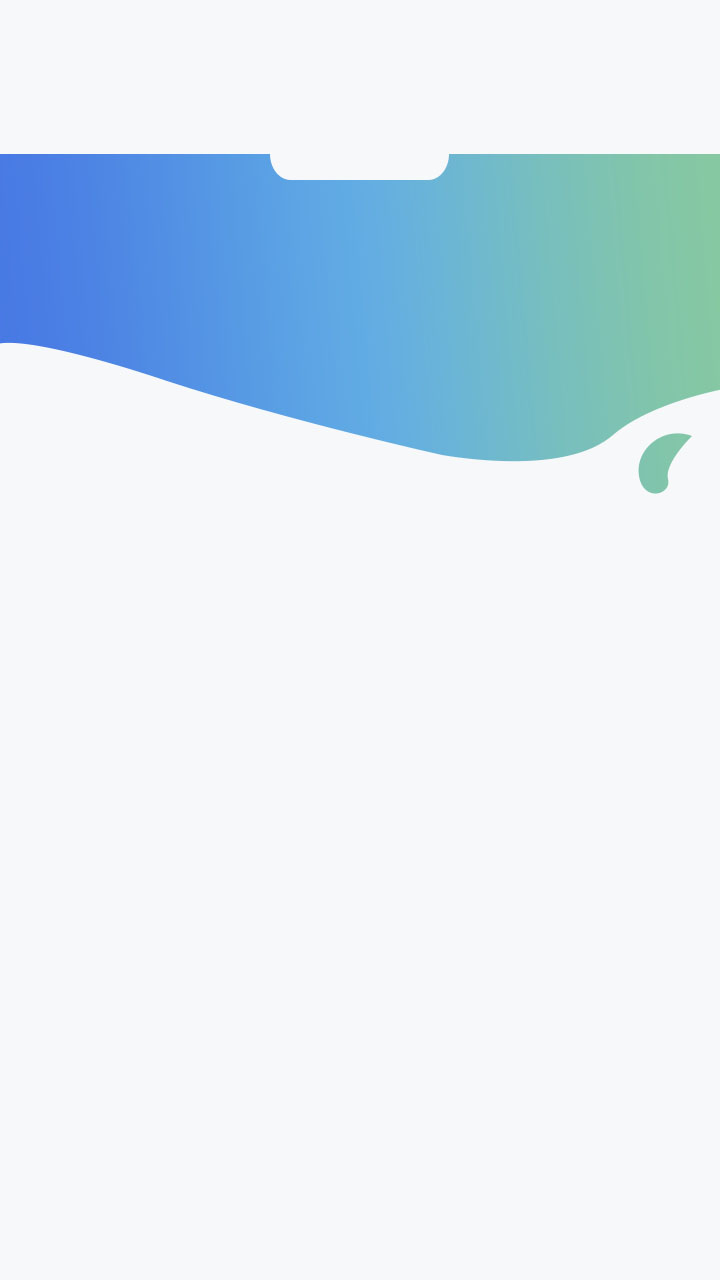
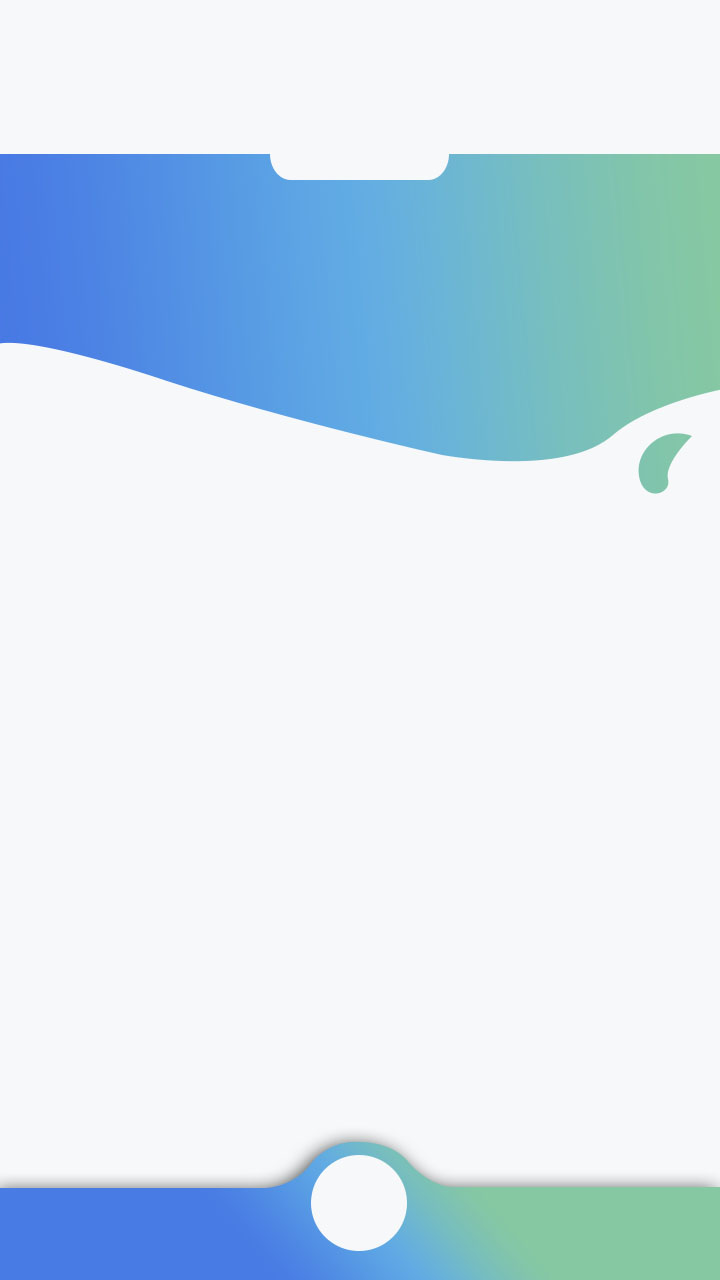
update delete + database + swipe to dismiss

Changed region(s): [[0.0, 0.875, 1.0, 1.0]]

diff --git a/lib/pages/home.dart b/lib/pages/home.dart
@@ -5,7 +5,7 @@ import 'package:pemrograman_mobile_uts/models/category.dart';
 import 'package:pemrograman_mobile_uts/pages/task.dart';
 import 'package:sqflite/sqflite.dart';
 import 'dart:async'; //pendukung program asinkron
-
+import 'package:flutter_slidable/flutter_slidable.dart';
 import 'formCategory.dart';
 
 class Home extends StatefulWidget {
@@ -116,19 +116,34 @@ class HomeState extends State<Home> {
             padding: EdgeInsets.only(left: 20, right: 20),
             child: Column(children: [
               Padding(
-                padding: const EdgeInsets.only(top: 40, bottom: 100),
-                child: Column(
+                padding: const EdgeInsets.only(top: 40, bottom: 100, left: 50),
+                child: Row(
                   children: [
-                    Text(
-                      "My Day",
-                      style: TextStyle(
+                    Padding(
+                      padding: const EdgeInsets.only(right: 10),
+                      child: CircleAvatar(
+                        backgroundColor: Colors.green[200],
+                        child: Icon(
+                          Icons.list,
                           color: Colors.white,
-                          fontWeight: FontWeight.bold,
-                          fontSize: 20),
+                        ),
+                      ),
                     ),
-                    Text(
-                      "You have " + count.toString() + " activites to do",
-                      style: TextStyle(color: Colors.white),
+                    Column(
+                      crossAxisAlignment: CrossAxisAlignment.start,
+                      children: [
+                        Text(
+                          "My Day",
+                          style: TextStyle(
+                              color: Colors.white,
+                              fontWeight: FontWeight.bold,
+                              fontSize: 20),
+                        ),
+                        Text(
+                          "You have " + count.toString() + " activites to do",
+                          style: TextStyle(color: Colors.white),
+                        ),
+                      ],
                     ),
                   ],
                 ),
@@ -162,11 +177,16 @@ class HomeState extends State<Home> {
                 child: createListView(),
               ),
               Container(
+                padding: EdgeInsets.only(bottom: 10, top: 10),
                 alignment: Alignment.bottomCenter,
                 child: SizedBox(
                   width: double.infinity,
-                  child: RaisedButton(
-                    child: Text("Tambah Item"),
+                  child: FloatingActionButton(
+                    backgroundColor: Colors.white,
+                    child: Icon(
+                      Icons.add,
+                      color: Colors.red[200],
+                    ),
                     onPressed: showBottomSheet,
                   ),
                 ),
@@ -213,21 +233,30 @@ class HomeState extends State<Home> {
             color: Colors.white,
           );
         }
-        return Card(
-          color: Colors.white,
-          elevation: 2.0,
-          child: ListTile(
-            leading: CircleAvatar(
-              backgroundColor: Colors.green[200],
-              child: iconString,
+        return Slidable(
+          actionPane: SlidableDrawerActionPane(),
+          actionExtentRatio: 0.25,
+          child: Container(
+            margin: EdgeInsets.only(bottom: 5),
+            color: Colors.white,
+            child: ListTile(
+              leading: CircleAvatar(
+                backgroundColor: Colors.green[200],
+                child: iconString,
+              ),
+              title: Text(
+                this.categoryList[index].categoryName,
+                style: textStyle,
+              ),
+              subtitle: Text("- "),
             ),
-            title: Text(
-              this.categoryList[index].categoryName,
-              style: textStyle,
-            ),
-            subtitle: Text("- "),
-            trailing: GestureDetector(
-              child: Icon(Icons.edit),
+          ),
+          actions: <Widget>[
+            IconSlideAction(
+              caption: 'Edit',
+              color: Colors.green[200],
+              icon: Icons.edit,
+              foregroundColor: Colors.white,
               onTap: () async {
                 var category =
                     await navigateToForm(context, this.categoryList[index]);
@@ -240,19 +269,23 @@ class HomeState extends State<Home> {
                 }
               },
             ),
-            onTap: () async {
-              var category =
-                  await navigateToTask(context, this.categoryList[index]);
-              //TODO 4 Panggil Fungsi untuk Edit data
-              updateListView();
-              if (category != null) {
-                int result = await dbHelper.updateCategory(category);
-                if (result > 0) {
-                  updateListView();
-                }
-              }
-            },
-          ),
+          ],
+          secondaryActions: <Widget>[
+            IconSlideAction(
+              caption: 'Delete',
+              color: Colors.red,
+              icon: Icons.delete,
+              onTap: () async {
+                //TODO 3 Panggil Fungsi untuk Delete dari DB berdasarkan Item
+                int id =
+                    this.categoryList[index].id; // get id from sqlite database
+                int result = await dbHelper
+                    .deleteCategory(id); // delete by id from table
+                categoryList.removeAt(index); // delete by index from list
+                updateListView();
+              },
+            ),
+          ],
         );
       },
     );

diff --git a/lib/database/dbhelper.dart b/lib/database/dbhelper.dart
@@ -37,7 +37,7 @@ class DbHelper {
     batch.execute(
         "CREATE TABLE category ( id INTEGER PRIMARY KEY AUTOINCREMENT, categoryName TEXT)");
     batch.execute(
-        "CREATE TABLE task ( id INTEGER PRIMARY KEY AUTOINCREMENT, taskName TEXT, idCategory INTEGER)");
+        "CREATE TABLE task ( id INTEGER PRIMARY KEY AUTOINCREMENT, taskName TEXT, idCategory INTEGER FOREIGN KEY (idCategory) REFERENCES category(id) ON UPDATE CASCADE ON DELETE CASCADE)");
     List<dynamic> res = await batch.commit();
   }
 
